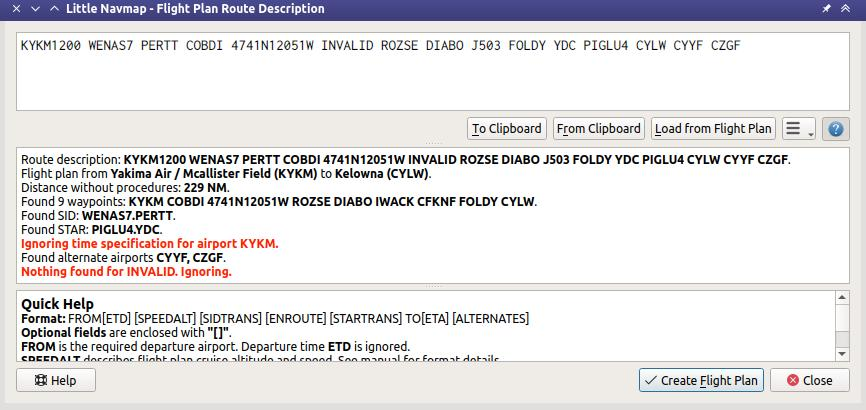
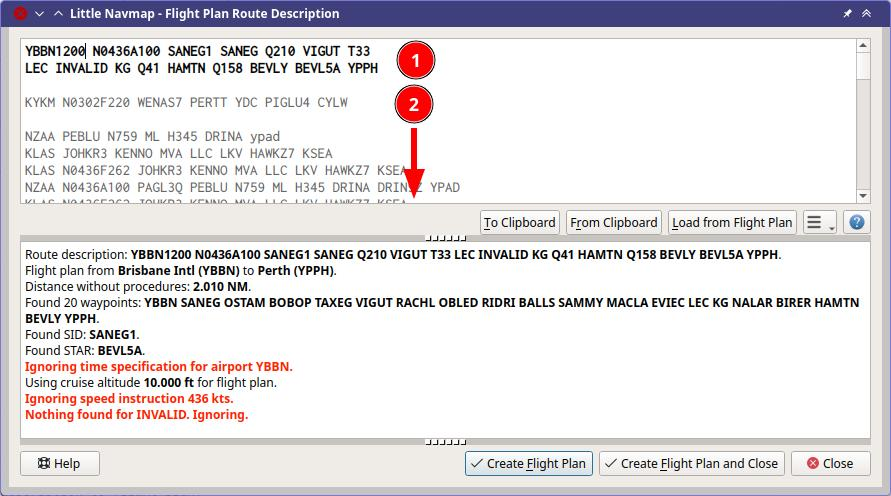
More updates for 2.8.11

diff --git a/src/en/ROUTEDESCR.rst b/src/en/ROUTEDESCR.rst
@@ -5,11 +5,20 @@ This dialog allows you to create a flight plan from a route description string c
 as generated or provided by various online services.
 
 Click ``Load from Flight Plan`` to generate the route string from the currently loaded flight plan.
+This will append and read the string on the top of the list.
 
 The top of the dialog holds the route description input field,
 while the center half shows any messages, warnings or errors that occur
 during reading. The string is read automatically while entering it into the input field.
 The lower part provides a quick help.
+
+.. role:: dim-style
+
+The input field is split into two sections. The top most can cover several lines and is is shown
+using **bold text**. This is the active section which is read and the results are shown in the output.
+The lower text can be seen as a kind of a notepad, is displayed in :dim-style:`gray color` and is ignored for reading.
+The two sections are separated by an empty line.
+All texts are saved on exit.
 
 The menu button |Menu Button| provides a dropdown menu than can be used
 to customize the generated route string.
@@ -21,7 +30,7 @@ if that is the case.
 
 If a route covers a long distance and contains a waypoint name which is
 not unique, a wrong waypoint might be added to the flight plan. Correct
-or remove this waypoint manually.
+or remove this waypoint manually in the :ref:`flight-plan-table` using the :ref:`flight-plan-table-view-context-menu`.
 
 Many waypoints and airways will not be found if route descriptions from
 the latest AIRAC sources are used together with the old FSX, P3D or MSFS stock data.
@@ -56,23 +65,27 @@ Click ``Create Flight Plan`` before doing changes on the map or in the flight pl
 
 .. figure:: ../images/routedescr.jpg
 
-          A route description that was read successfully with
+          A route description (1) (bold top section) that was read successfully with
           a few warnings about ignored elements. The waypoint ``INVALID`` could not be
           found. Altitude, SID and STAR were recognized.
+          More inactive route descriptions are stored below (2).
 
 Buttons
 ~~~~~~~
 
--  ``To Clipboard``: Copy the current description as plain text to the clipboard.
--  ``From Clipboard``: Insert text from clipboard into the input field.
-   The inserted text is converted to upper case and all invalid
-   characters are removed from the text before reading.
+Note that some buttons are now shown when opening this dialog from :doc:`LOADSIMBRIEF`.
+
+-  ``To Clipboard``: Copy the current active description from the input field as plain text to the clipboard.
+-  ``From Clipboard``: Insert text from clipboard into the top of the input field making it the active route description.
+   The inserted text is converted to upper case and all invalid characters are removed from the text before reading.
 -  ``Load from Flight Plan``: Create the route string from the current
-   flight plan. Use this after changing settings with drop down
+   flight plan and inserts it into the top of the input field making it the active route description.
+   Use this after changing settings with drop down
    menu button or after modifying the flight plan on the map or in the flight plan table.
 -  Menu Button |Menu Button|: ``Write`` denotes flight plan to
    description and ``Read`` denotes description to flight plan.
    You can tear off the drop down menu from the button by clicking on the dashed line on top of it.
+   Note that the menus starting with ``Write`` are now shown when opening this dialog from :doc:`LOADSIMBRIEF`.
 
    -  ``Write departure and destination airport``: Note that disabling
       this option will result in an invalid route description which cannot be read

diff --git a/src/en/OPTIONS.rst b/src/en/OPTIONS.rst
@@ -202,6 +202,8 @@ altitude and nautical miles for distance are possible.
        See :ref:`signed-decimal-coordinates` for more information when using ``Latitude and Longitude with sign``
        or ``Longitude and Latitude with sign`` since these modes also affect coordinate input.
 
+       The format ``Degree, Decimal Minutes for Google`` is useful for input into Google Maps or Google Earth.
+
 .. warning::
 
       Note that any numbers used in the program are not converted when

diff --git a/src/en/LOGBOOK.rst b/src/en/LOGBOOK.rst
@@ -396,7 +396,7 @@ Correct the simulator departure or arrival time manually if you find such cases.
 
 You can click on the top table header to sort the related column in ascending or descending order.
 
-Scroll down to load more values into the table.
+Scroll down in the table to load more values.
 
 .. figure:: ../images/logbook_stats.jpg
          :scale: 50%
